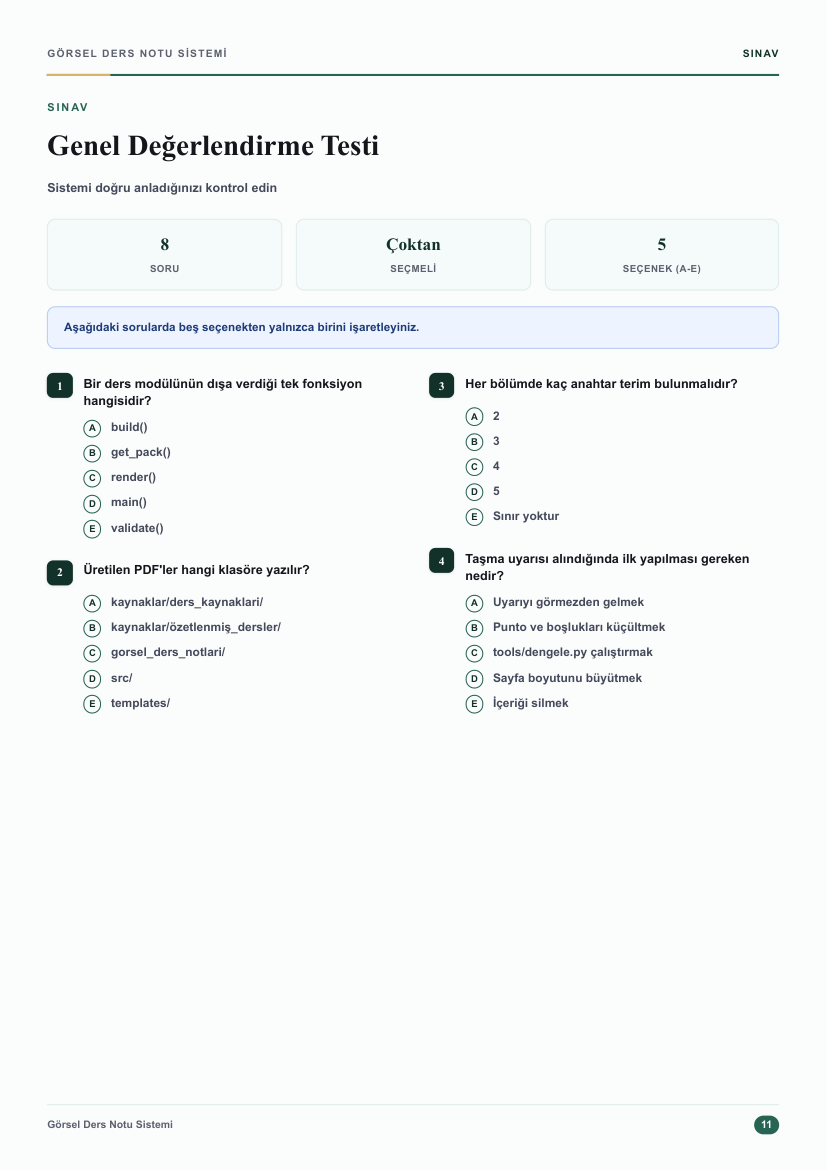
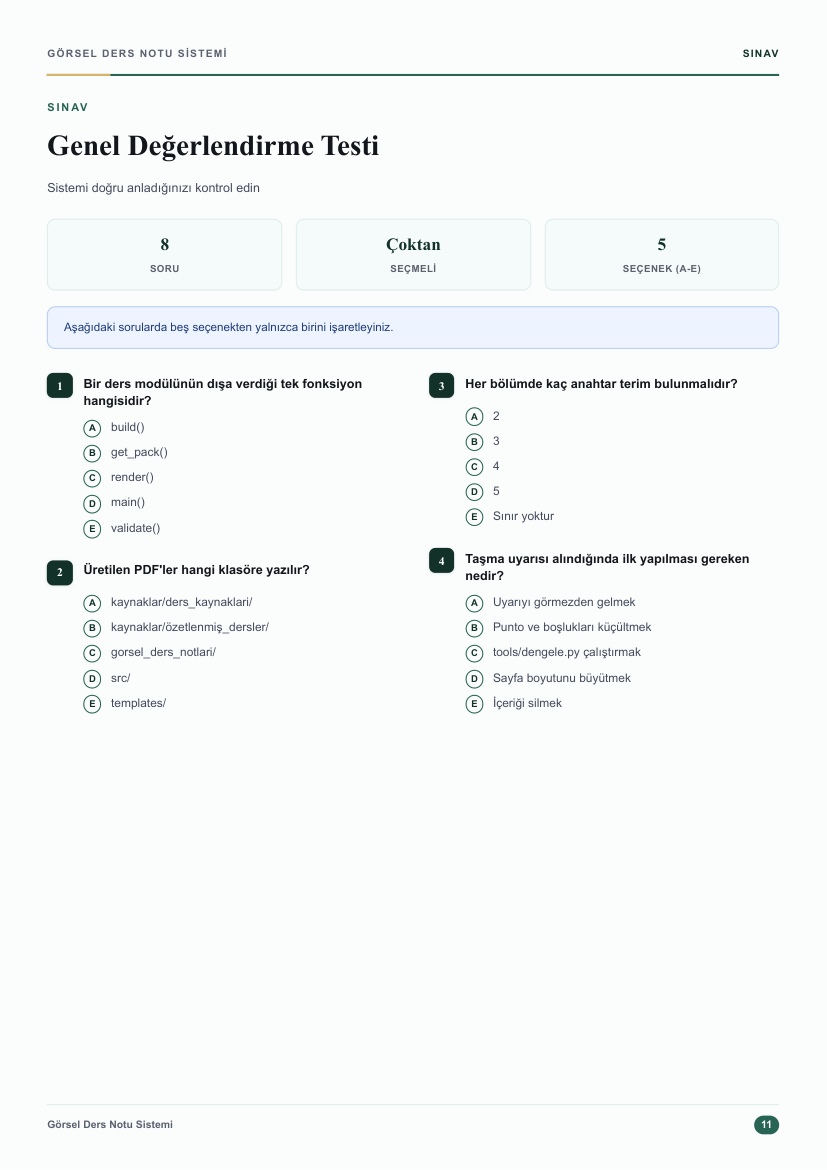
ornek_ders: bozuk HTML kaynakli duzen cokmesi + yari bos sayfalar duzeltildi
Kullanici ornek ders PDF'inde "kaymalar ve gereksiz bosluklar" bildirdi.
Iki ayri sorun cikti.

1) DUZEN COKMESI -- kapatilmamis HTML etiketi (asil "kayma")

Sablon icerik metinlerini kacirmadan basiyor (boylece <b>vurgu</b>
yazilabiliyor). Bedeli: dengesiz bir etiket gecerli HTML uretiyor ama
tarayicinin hata kurtarma algoritmasini tetikliyor ve etiket kendinden
sonraki KARDES dugumleri kendi icine aliyor.

Olculdu (Chromium, sozluk sayfasi): tek bir acik <b> yuzunden 2 sutunlu
izgara 4/10'a bolunmus, bir hucre 17,6mm yerine 123,5mm olmus ve alt bilgi
metnin ortasinda kalmisti. Ikinci ornek: "src/<ders>.py" -- <ders> bilinmeyen
etiket sayilip yutuldugu icin ekranda "src/.py" goruruyordu.

  * ornek_ders.py'de iki yer &lt;...&gt; olarak kacisli hale getirildi
  * validate() artik CoursePack agacindaki BUTUN string alanlari gezip
    etiket dengesini denetliyor (_metinleri_gez / _etiket_dengesizligi);
    bulgu, alanin yolu ve metnin bir parcasiyla birlikte bildiriliyor
  * 11 gercek ders bu denetimden 0 bulguyla gecti -- sorun yalnizca ornek
    derste vardi
  * CLAUDE.md'ye 18. tuzak olarak yazildi

Bu hata sinifini ne tasma denetimi ne CI yakalayabilir: cikti "tasmiyor",
sadece yanlis. Denetim bu bosluğu kapatiyor.

2) YARI BOS SAYFALAR

dengele.py tasarimi geregi "en az sayfa, boslugu sona it" yapiyor. Uc
bolumluk bu orneckte bu, 260mm + 43mm gibi uclara yol acmisti (5. sayfa tek
bir ozet kutusundan ibaretti). Blok SIRASI korunarak bolunme noktalari
dengelendi:
[…]

diff --git a/build.py b/build.py
@@ -36,6 +36,7 @@ otomatik oluşturulur. Bu kural TÜM sınıf/dönem/sınav kombinasyonlarında
 geçerlidir.
 """
 
+import re
 import sys
 import argparse
 import subprocess
@@ -414,6 +415,9 @@ QA_PER_PAGE = 12            # LEGACY
 DISTINCTIONS_PER_PAGE = 8  # LEGACY
 MATCHTABLE_PER_PAGE = 11    # LEGACY
 TEST_PER_PAGE_FIRST = 7    # ilk test sayfasında bilgi çubuğu + talimat kutusu da var
+                           # (2026-08: kalibre.py'ye eklendi ve ilk kez ÖLÇÜLDÜ --
+                           #  elle konmuş 7 değeri A4'te de doğru çıktı; 8'de bazı
+                           #  derslerin uzun soru metinleri ilk sayfayı taşırıyor)
 TEST_PER_PAGE = 8          # devam sayfalarında (2 sütunlu düzen, 5 seçenekli MCQ)
 ANSWER_PER_PAGE = 23       # sayfa başına çözümlü cevap (2 sütunlu düzen)
 
@@ -651,6 +655,52 @@ def optimize_pdf(pdf_path: Path) -> tuple[int, int]:
     return before, after
 
 
+# Şablon, içerik metinlerini KAÇIRMADAN (autoescape kapalı) basar: böylece
+# <b>vurgu</b> yazabiliyorsunuz. Bedeli, kapatılmamış tek bir etiketin geçerli
+# HTML üretmesi ama tarayıcının hata kurtarma algoritmasını tetiklemesidir --
+# etiket kendinden sonraki kardeş düğümleri kendi içine alır ve sayfa düzeni
+# sessizce çöker (ölçüldü: ornek_ders sözlüğünde tek bir açık <b>, ızgarayı
+# 2 sütundan çıkarıp alt bilgiyi metnin ortasında bıraktı). Ne taşma denetimi
+# ne CI bunu yakalar; çünkü çıktı "taşmıyor", sadece yanlış.
+_ETIKET_RE = re.compile(r"<\s*(/?)\s*([a-zA-Z][a-zA-Z0-9]*)[^>]*?(/?)\s*>")
+_BOS_ETIKETLER = {"br", "hr", "img", "wbr", "input", "meta", "link"}
+
+
+def _etiket_dengesizligi(metin: str) -> str | None:
+    """Bir içerik metnindeki kapatılmamış/fazladan kapatılmış ilk etiketi
+    döndürür; metin dengeliyse None."""
+    yigin = []
+    for kapanis, ad, kendini_kapatan in _ETIKET_RE.findall(metin):
+        ad = ad.lower()
+        if ad in _BOS_ETIKETLER or kendini_kapatan:
+            continue
+        if kapanis:
+            if not yigin or yigin[-1] != ad:
+                return f"</{ad}> fazladan (açılmamış)"
+            yigin.pop()
+        else:
+            yigin.append(ad)
+    return f"<{yigin[-1]}> kapatılmamış" if yigin else None
+
+
+def _metinleri_gez(nesne, yol="pack", derinlik=0):
+    """CoursePack ağacındaki bütün string alanları (yol, metin) olarak üretir."""
+    import dataclasses
+    if derinlik > 12:
+        return
+    if isinstance(nesne, str):
+        yield yol, nesne
+    elif isinstance(nesne, (list, tuple)):
+        for i, o in enumerate(nesne):
+            yield from _metinleri_gez(o, f"{yol}[{i}]", derinlik + 1)
+    elif isinstance(nesne, dict):
+        for k, v in nesne.items():
+            yield from _metinleri_gez(v, f"{yol}[{k!r}]", derinlik + 1)
+    elif dataclasses.is_dataclass(nesne):
+        for f in dataclasses.fields(nesne):
+            yield from _metinleri_gez(getattr(nesne, f.name), f"{yol}.{f.name}", derinlik + 1)
+
+
 def validate(pack) -> list[str]:
     """Üretim öncesi otomatik tutarlılık denetimi."""
     warnings = []
@@ -685,6 +735,15 @@ def validate(pack) -> list[str]:
             q = next((q for q in pack.test_questions if q.number == a.number), None)
             if q and a.correct not in q.options:
                 warnings.append(f"Cevap anahtarı {a.number}: '{a.correct}' seçeneği soruda yok.")
+    for yol, metin in _metinleri_gez(pack):
+        if "<" not in metin:
+            continue
+        hata = _etiket_dengesizligi(metin)
+        if hata:
+            warnings.append(
+                f"Bozuk HTML ({yol}): {hata} -- sayfa düzeni sessizce çöker. "
+                f"Etiketi düz metin olarak göstermek istiyorsanız &lt;b&gt; yazın. "
+                f"Metin: {metin[:70]!r}")
     return warnings
 
 

diff --git a/dersler/src/ornek_ders.py b/dersler/src/ornek_ders.py
@@ -80,6 +80,9 @@ def get_pack() -> CoursePack:
             FlowStep("PDF", "Chromium"),
             FlowStep("CMYK", "Ghostscript (--cmyk)"),
         ], caption="Üretim hattının beş adımı. Her adım bir öncekinin çıktısını girdi alır."))
+    )
+    ch1.pages.append(
+        ChapterPage()
         .add_table(ComparisonTable(
             "Üç klasörün rolü — birbirinin yerine geçmez",
             ["Klasör", "Rolü", "Kim yazar?"],
@@ -94,9 +97,6 @@ def get_pack() -> CoursePack:
             "<b>özetlenmiş_dersler/</b> klasörü build.py'nin ÇIKTISI değil, "
             "<b>GİRDİSİDİR</b>. Üretilen PDF'ler her zaman "
             "<b>gorsel_ders_notlari/</b> altına düşer."))
-    )
-    ch1.pages.append(
-        ChapterPage()
         .add_summary(
             "Sistem, içerik ile tasarımı birbirinden ayırır. Siz yalnızca içeriği "
             "yazarsınız; sayfa düzeni, tipografi, renk ve baskı geometrisi sizin "
@@ -135,6 +135,9 @@ def get_pack() -> CoursePack:
             "Her <b>AnswerItem.correct</b> değeri, o sorunun seçenek anahtarlarından biri olmalıdır.",
             "Numaralandırma 1'den başlar ve boşluksuz artar; <b>validate()</b> bunu denetler.",
         ]))
+    )
+    ch2.pages.append(
+        ChapterPage()
         .add_table(ComparisonTable(
             "Sayfaya eklenebilecek bloklar",
             ["Metot", "Ne üretir"],
@@ -146,9 +149,6 @@ def get_pack() -> CoursePack:
                 ["<b>.add_flow()</b>", "Yatay oklu süreç şeması"],
                 ["<b>.add_summary()</b>", "Bölüm sonu özet kutusu"],
             ]))
-    )
-    ch2.pages.append(
-        ChapterPage()
         .add_callout(Callout(
             "caution", "Aşırı yüklü sayfa",
             "Tek bir sayfaya terim kutusu + iki büyük tablo + callout + özet "
@@ -187,6 +187,9 @@ def get_pack() -> CoursePack:
             "Uyarı varsa önce <b>tools/dengele.py</b> çalıştırın; o çözemezse sayfayı elle bölün.",
             "<b>✓</b> görene kadar derleyin — uyarıyla teslim edilen PDF içerik kaybetmiş demektir.",
         ]))
+    )
+    ch3.pages.append(
+        ChapterPage()
         .add_table(ComparisonTable(
             "Baskı geometrisi",
             ["Ölçü", "Değer"],
@@ -203,9 +206,6 @@ def get_pack() -> CoursePack:
             "taşmayı gizleyebiliyordu. Tasarımda <b>flex-shrink: 0</b> zorunlu "
             "kılınarak bu engellendi: artık taşma her zaman <b>gerçek</b> ve "
             "build çıktısında <b>görünür</b>."))
-    )
-    ch3.pages.append(
-        ChapterPage()
         .add_flow(FlowDiagram([
             FlowStep("Derle", "build.py"),
             FlowStep("Uyarıyı oku", "taşma var mı?"),
@@ -237,7 +237,7 @@ def get_pack() -> CoursePack:
         Concept("KeyTerm", "Terim kutusu öğesi.",
                 "Her bölümde tam 4 tane.", 2),
         Concept("BulletBlock", "Numaralı alt başlık + madde listesi.",
-                "Maddeler <b> ile vurgu içerebilir.", 2),
+                "Maddeler &lt;b&gt; ile vurgu içerebilir.", 2),
         Concept("ComparisonTable", "Başlıklı karşılaştırma tablosu.",
                 "2-3 sütun en iyi sonucu verir.", 2),
         Concept("Callout", "Renkli vurgu kutusu.",
@@ -345,7 +345,7 @@ def get_pack() -> CoursePack:
         ],
         overview_flow=[
             ("Kaynak", "Ham ders metni"),
-            ("Modül", "src/<ders>.py"),
+            ("Modül", "src/&lt;ders&gt;.py"),
             ("Derle", "build.py"),
             ("Denetle", "Taşma + görsel"),
         ],

diff --git a/tools/kalibre.py b/tools/kalibre.py
@@ -54,6 +54,10 @@ from cekirdek.theme_engine import resolve_theme_css           # noqa: E402
 # sabit adı -> (aday değerler, o bölümün ilk sayfasının anchor'ı)
 CANDIDATES = {
     "GLOSSARY_PER_PAGE": list(range(26, 5, -1)),
+    # İlk test sayfasında banner + 3'lü bilgi çubuğu + talimat kutusu da var,
+    # bu yüzden devam sayfalarından AYRI kalibre edilir. Uzun süre bu listede
+    # yoktu; sabit elle 7'de kalmıştı ve A4'e geçince ölçülmemiş oldu.
+    "TEST_PER_PAGE_FIRST": list(range(12, 1, -1)),
     "TEST_PER_PAGE": list(range(12, 1, -1)),
     "ANSWER_PER_PAGE": list(range(24, 3, -1)),
     "QA_PER_PAGE": list(range(12, 2, -1)),
@@ -64,6 +68,7 @@ CANDIDATES = {
 # hangi sabit hangi sayfa aralığını etkiler (page_starts anahtarı, bitiş anahtarı)
 SPANS = {
     "GLOSSARY_PER_PAGE": ("glossary", ("test", "exam")),
+    "TEST_PER_PAGE_FIRST": ("test", ("answer_key",)),
     "TEST_PER_PAGE": ("test", ("answer_key",)),
     "ANSWER_PER_PAGE": ("answer_key", ("end+1",)),
     "QA_PER_PAGE": ("exam", ("end+1",)),

diff --git a/CLAUDE.md b/CLAUDE.md
@@ -528,7 +528,8 @@ python build.py <ders_slug> --sinif X --donem Y --sinav Z
 ```
 Bu tek komut şunları otomatik yapar: HTML üretir → tutarlılık denetimi
 (`validate()`: bölüm numaraları ardışık mı, sözlük referansları geçerli mi,
-tekrar eden terim var mı) → Playwright ile PDF'e render eder → **her sayfanın
+tekrar eden terim var mı, İçindekiler satır sayısı kapasiteyi aşıyor mu,
+**içerik metinlerinde kapatılmamış HTML etiketi var mı**) → Playwright ile PDF'e render eder → **her sayfanın
 gerçek render yüksekliğini 210×297mm sınırıyla karşılaştırır** → PDF'e gerçek
 bookmark/outline ekler → TrimBox/BleedBox yazar → Ghostscript ile PDF/X-4
 CMYK'ya çevirir → **toplam sayfa sayısını ve bitmiş ölçüyü konsola basar.**
@@ -1230,7 +1231,21 @@ Bunlar `templates/style.css` içinde zaten düzeltilmiş durumda — sadece
     inemez). `.ov-flow-step` ve `.flowdiag .fstep` bu yüzden
     `min-width: 0; overflow-wrap: break-word;` taşır — kaldırmayın.
 
-18. **`add_ayat()` başlığı artık opsiyoneldir**: uzun bir ayet grubu (Tefsir
+18. **Kapatılmamış tek bir `<b>` sayfa düzenini sessizce çökertir**: şablon
+    içerik metinlerini KAÇIRMADAN basar (`<b>vurgu</b>` yazabilmeniz için).
+    Bedeli, dengesiz bir etiketin geçerli HTML üretmesi ama tarayıcının hata
+    kurtarma algoritmasını tetiklemesidir: etiket, kendinden sonraki KARDEŞ
+    düğümleri kendi içine alır. Ölçüldü (`ornek_ders`, 2026 Ağustos): sözlükteki
+    tek bir açık `<b>`, 2 sütunlu ızgarayı 4/10'a bölmüş, bir hücreyi 17,6mm
+    yerine 123,5mm yapmış ve alt bilgiyi metnin ortasında bırakmıştı. Aynı tuzak
+    `<ders>` gibi **köşeli parantezli yer tutucularda** da geçerlidir — tarayıcı
+    bunu bilinmeyen bir etiket sayar ve yutar (`src/<ders>.py` ekranda
+    `src/.py` görünüyordu). Metinde etiketi DÜZ METİN olarak göstermek
+    istiyorsanız `&lt;b&gt;` yazın. **Ne taşma denetimi ne CI bunu yakalar**
+    (çıktı taşmıyor, sadece yanlış); bu yüzden `validate()` artık `CoursePack`
+    ağacındaki bütün metinleri gezip etiket dengesini denetler.
+
+19. **`add_ayat()` başlığı artık opsiyoneldir**: uzun bir ayet grubu (Tefsir
     II'de 279mm'ye kadar) tek sayfaya sığmadığında `tools/dengele.py` grubu
     Ayah kartları arasından bölüyor; devam parçası `add_ayat(None, [...])`
     olarak basılıyor ve şablondaki `{% if title %}` koruması sayesinde başlık
